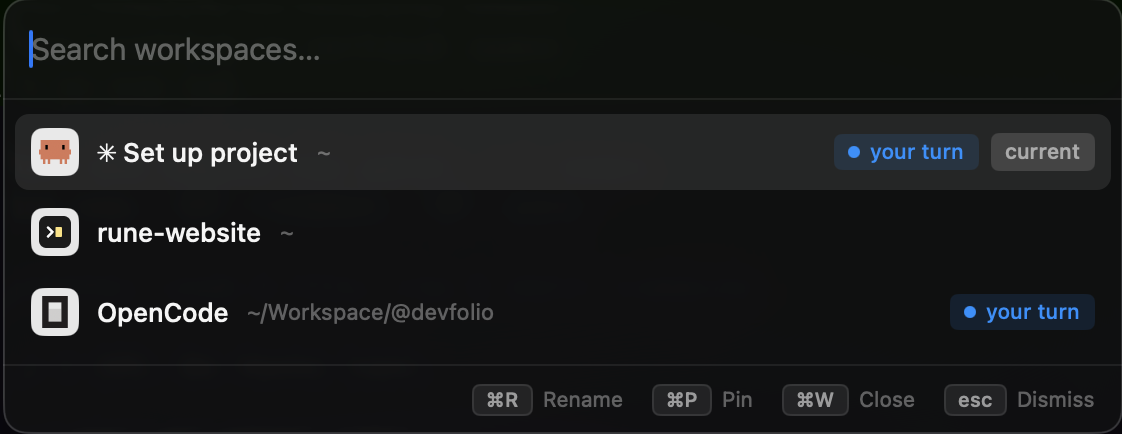
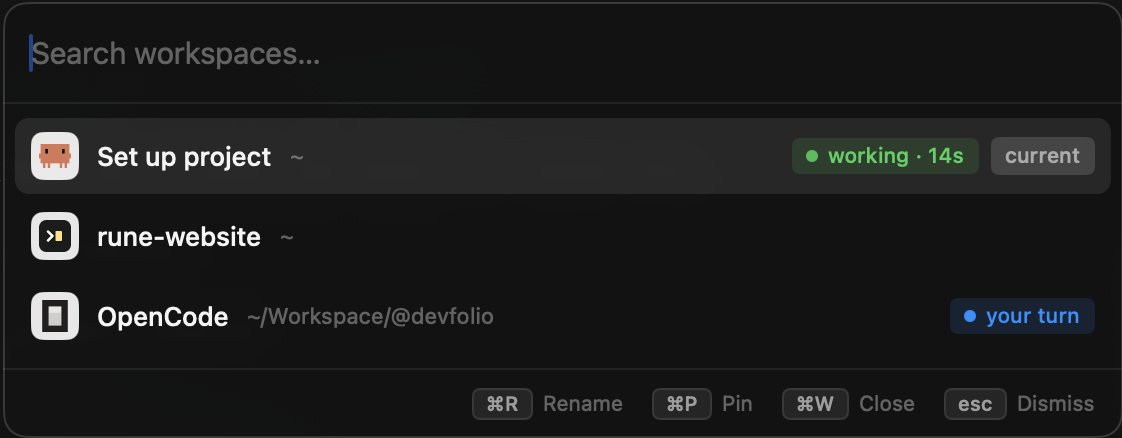
docs: centre the switcher shot, and one that shows both states
The new capture has a row counting up and a row waiting on you, so the
two states the list talks about are both visible in the picture beside
it. The old one had two idle rows and a `your turn`, which showed the
chords and none of the reporting.

Centred, so it sits under the heading rather than hard against the left
margin while the masthead above it is centred.

diff --git a/README.md b/README.md
@@ -30,7 +30,9 @@ updates itself after that.
 
 ## What it does
 
-<img src="docs/images/palette.png" width="561" alt="The ⌘K switcher: three workspaces, two waiting on you, with the ⌘R rename, ⌘P pin and ⌘W close hints along the bottom">
+<div align="center">
+<img src="docs/images/palette.png" width="561" alt="The ⌘K switcher: three workspaces, one working with a clock, one idle, one waiting on you, with the ⌘R rename, ⌘P pin and ⌘W close hints along the bottom">
+</div>
 
 - `⌘K` opens the switcher.
 - `⌘N` makes a new workspace.
